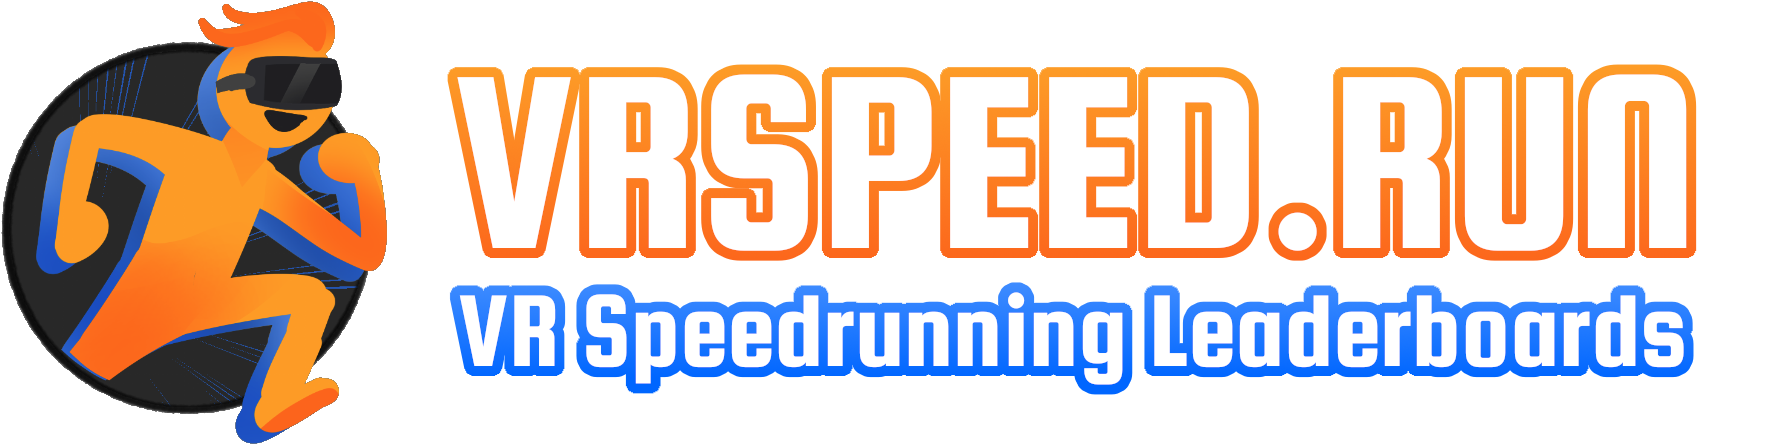
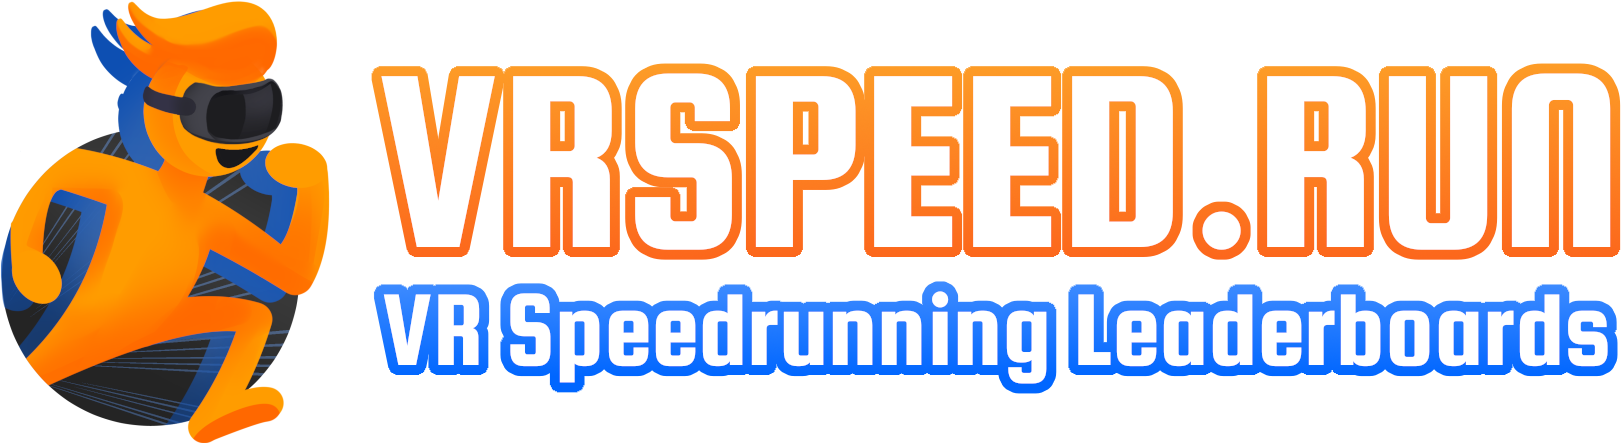
added about page, added header to readme, replaced temp art with finished commissioned art, set page title on streams page

diff --git a/vrsrassets/css/main.css b/vrsrassets/css/main.css
@@ -64,6 +64,12 @@ a.thick-underline:hover {
 	text-decoration: underline solid 2px;
 }
 
+code {
+	background-color: var(--button-background-hover-color);
+	border-radius: 4px;
+	color: var(--text-color);
+}
+
 /* ---------- Button ---------- */
 
 .button.is-dark {
@@ -1108,7 +1114,7 @@ a.button:not(:last-child) {
 		max-width: 960px;
 		display: flex;
 	}
-	.navbar.is-home-page > div {
+	.navbar.smaller > div {
 		max-width: 800px;
 	}
 }
@@ -1116,7 +1122,7 @@ a.button:not(:last-child) {
 	.navbar > div {
 		max-width: 1152px;
 	}
-	.navbar.is-home-page > div {
+	.navbar.smaller > div {
 		max-width: 960px;
 	}
 }
@@ -1124,7 +1130,7 @@ a.button:not(:last-child) {
 	.navbar > div {
 		max-width: 1344px;
 	}
-	.navbar.is-home-page > div {
+	.navbar.smaller > div {
 		max-width: 1120px;
 	}
 }
@@ -1306,7 +1312,7 @@ a.button:not(:last-child) {
 	height: 100%;
 }
 .box.about > p:not(:last-child) {
-	margin-bottom: 0.9rem;
+	margin-bottom: 0.7rem;
 }
 
 .divider {

diff --git a/vrsrassets/js/gamedata.js b/vrsrassets/js/gamedata.js
@@ -39,6 +39,7 @@ Variable Object
 
 var homeContainer;
 var mainContainer;
+var aboutContainer;
 
 var reorderedGamesArray;
 
@@ -108,9 +109,11 @@ function onGameDataLoad()
 {
 	homeContainer = document.getElementById("home-container");
 	mainContainer = document.getElementById("main-container");
+	aboutContainer = document.getElementById("about-container");
 
 	allContainers.push(homeContainer);
 	allContainers.push(mainContainer);
+	allContainers.push(aboutContainer);
 
 	gamesContainer = document.getElementById("games");
 	categoriesContainer = document.getElementById("tabs")
@@ -176,7 +179,15 @@ function onGameDataLoad()
 
 		if (id == "streams")
 		{
+			document.title = "Streams - VRSR";
 			loadStreams();
+			return;
+		}
+		else if (id == "about")
+		{
+			document.title = "About - VRSR";
+			hideAllContainers();
+			aboutContainer.style.display = "block";
 			return;
 		}
 		else if (getUser())

diff --git a/vrsrassets/js/main.js b/vrsrassets/js/main.js
@@ -27,12 +27,16 @@ function onLoad()
     {
         replaceState(null);
         latestWRsLoad();
-        document.getElementsByTagName("nav")[0].classList.add("is-home-page");
+        document.getElementsByTagName("nav")[0].classList.add("smaller");
     }
     else if (getGame() == 'streams')
     {
         //document.getElementById("nav-leaderboard").style.display = "none";
         document.getElementById("nav-streams").classList.add("current-page");
+    }
+    else if (getGame() == 'about')
+    {
+        document.getElementsByTagName("nav")[0].classList.add("smaller");
     }
     else
     {

diff --git a/index.php b/index.php
@@ -61,6 +61,8 @@
 						<div class="navbar-item has-dropdown">
 							<a class="navbar-link is-arrowless" onclick="toggleNavDropdown(this.parentElement);">More... <i class="fas fa-sort-down"></i></a>
 							<div class="navbar-dropdown">
+								<a class="navbar-item in-dropdown" href="about"><i class="fas fa-info-circle"></i> About</a>
+								<hr class="navbar-divider">
 								<a class="navbar-item in-dropdown" href="https://github.com/VRSpeedruns" target="_blank"><i class="fab fa-github"></i> GitHub</a>
 								<a class="navbar-item in-dropdown" href="https://twitter.com/VRSpeedruns" target="_blank"><i class="fab fa-twitter"></i> Twitter</a>
 								<hr class="navbar-divider">
@@ -94,7 +96,6 @@
 			</div>
 			<div class="container" id="home-container" style="display: none;">
 				<div class="columns is-centered">
-					
 					<div class="column is-6 has-text-centered">
 						<figure class="image site-header">
 							<img src="/vrsrassets/images/header.png">
@@ -114,9 +115,27 @@
 							<h1 class="is-box-heading">About</h1>
 							<div class="divider thin"></div>
 							<p>VRSpeed.run is a central hub to view the leaderboards for the largest virtual reality games in speedrunning.</p>
-							<p>If you'd like to hang out and discuss VR speedrunning, consider joining the <a href="https://discord.gg/g36fNmU3nA">VR Speedrunning Discord server</a>!</p>
-							<p>If there's a game that you believe belongs on here (or you see a bug/error), please ping <span id="tippy-me" class="is-tooltip-text">me</span> in the above Discord server.</p>
-							<p>For the latest VR world records and any updates regarding this site, check out the <a href="https://twitter.com/VRSpeedruns">@VRSpeedruns Twitter account</a>!</p>
+							<p>If you'd like to hang out and discuss VR speedrunning, consider joining the <a href="https://discord.gg/g36fNmU3nA" target="_blank">VR Speedrunning Discord server</a>!</p>
+							<p>For the latest VR world records and any updates regarding this site, check out the <a href="https://twitter.com/VRSpeedruns" target="_blank">@VRSpeedruns Twitter account</a>!</p>
+							<p>If there's a game that you believe belongs here (or you see a bug/error), please ping <span id="tippy-me" class="is-tooltip-text">me</span> in the Discord server above.</p>
+							<p>The site is open source! Check out the various repositories on <a href="https://github.com/VRSpeedruns" target="_blank">GitHub</a>.</p>
+							<p>Read more about the site on the <a href="about">About</a> page!</p>
+						</div>
+					</div>
+				</div>
+			</div>
+			<div class="container" id="about-container" style="display: none;">
+				<div class="columns is-centered">
+					<div class="column is-10">
+						<div class="box about">
+							<h1 class="is-box-heading">About</h1>
+							<div class="divider thin"></div>
+							<p>This site was built as a place to view the leaderboards for the top VR games in speedrunning in the most convenient way possible. Rather than save bookmarks for all the games you're interested in, you can simply pull up this site and all the games are here to view, and switching between them is as easy as clicking on one in the game selector. The main repository for this site is available at <a href="https://github.com/VRSpeedruns/VRSpeed.run" target="_blank">VRSpeedruns/VRSpeed.run</a></p>
+							<p>If you'd like to hang out and discuss virtual reality speedrunning, consider joining the <a href="https://discord.gg/g36fNmU3nA" target="_blank">VR Speedrunning Discord server</a>! Also, if there's a game that you believe belongs here (or you see a bug/error), please ping <span id="tippy-me" class="is-tooltip-text">me</span> in the server.</p>
+							<p>For the latest VR world records and any updates regarding this site, check out the <a href="https://twitter.com/VRSpeedruns" target="_blank">@VRSpeedruns Twitter account</a>! The repository for the Twitter bot is available at <a href="https://github.com/VRSpeedruns/Twitter" target="_blank">VRSpeedruns/Twitter</a>.</p>
+							<p>In addition to the Twitter bot above, there is also a Discord bot in the VR Speedrunning server above that will post WR's in the <code>#livefeed-new-wrs</code> channel if you'd rather be notified there instead. The bot also handles assigning roles based on what VR gear a user owns. The repository for the Discord bot is available at <a href="https://github.com/VRSpeedruns/Discord" target="_blank">VRSpeedruns/Discord</a>.</p>
+							<p>Both the Twitter and Discord bots get the latest WRs from a separate program that detects new world records and posts them as GitHub releases. The repository for this project is available at <a href="https://github.com/VRSpeedruns/WorldRecords" target="_blank">VRSpeedruns/WorldRecords</a>.</p>
+							<p>The new logo is a commission from the amazing <a href="https://twitter.com/Sixelona" target="_blank">@Sixelona</a>!</p>
 							<p>I maintain this site in my spare time. If you'd like to support me, consider checking out <a href="https://ko-fi.com/bigfoott" target="_blank">my Ko-fi page</a>! 😊</p>
 						</div>
 					</div>

diff --git a/README.md b/README.md
@@ -1,3 +1,5 @@
+[![VRSpeed.run](https://vrspeed.run/vrsrassets/images/header.png)](https://vrspeed.run)
+
 ## About
 
 VRSpeed.run is a central hub to view the leaderboards for the largest virtual reality games in speedrunning.
